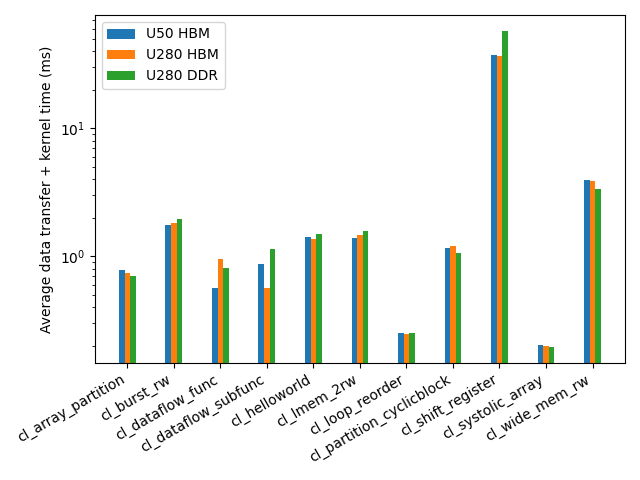
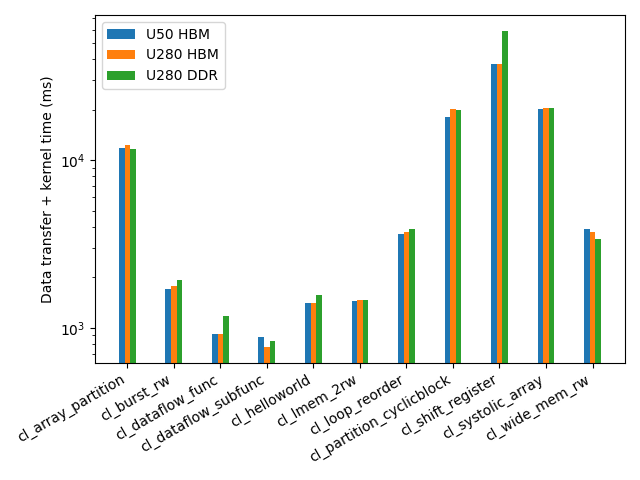
Update execution time

diff --git a/performance/execution-time.py b/performance/execution-time.py
@@ -14,7 +14,7 @@ df_u280_ddr_fast = pd.read_csv("../data/u280-ddr-fast-vitis.csv", skipinitialspa
 
 # Sum up data transfer + kernel execution time
 for df in [df_u50_slow, df_u50_fast, df_u280_slow, df_u280_fast, df_u280_ddr_slow, df_u280_ddr_fast]:
-    df["transfer+kernel"] = df["data_to_fpga_average"] + df["kernel_average"] + df["data_to_host_average"]
+    df["transfer+kernel"] = df["data_to_fpga"] + df["kernel"] + df["data_to_host"]
     df["transfer+kernel"] /= 1_000_000 # to miliseconds
 
 bar_width = 0.12
@@ -57,7 +57,7 @@ plt.bar(x            , df_u280_slow["transfer+kernel"].values, width=bar_width, 
 plt.bar(x + bar_width, df_u280_ddr_slow["transfer+kernel"].values, width=bar_width, label=f"U280 DDR")
 
 plt.xticks(x, app_names, rotation=30, ha="right")
-plt.ylabel("Average data transfer + kernel time (ms)")
+plt.ylabel("Data transfer + kernel time (ms)")
 # plt.grid(which="both", axis="y")
 plt.yscale("log")
 plt.legend(loc="upper left")
@@ -74,7 +74,7 @@ plt.bar(x            , df_u280_fast["transfer+kernel"].values, width=bar_width, 
 plt.bar(x + bar_width, df_u280_ddr_fast["transfer+kernel"].values, width=bar_width, label="U280 DDR")
 
 plt.xticks(x, app_names, rotation=30, ha="right")
-plt.ylabel("Average data transfer + kernel time (ms)")
+plt.ylabel("Data transfer + kernel time (ms)")
 # plt.grid(which="both", axis="y")
 plt.yscale("log")
 plt.legend(loc="upper left")

diff --git a/performance/execution-time-widemem.py b/performance/execution-time-widemem.py
@@ -14,7 +14,7 @@ df_u280_ddr_fast = pd.read_csv("../data/u280-ddr-fast-vitis.csv", skipinitialspa
 
 # Sum up data transfer + kernel execution time
 for df in [df_u50_slow, df_u50_fast, df_u280_slow, df_u280_fast, df_u280_ddr_slow, df_u280_ddr_fast]:
-    df["transfer+kernel"] = df["data_to_fpga_average"] + df["kernel_average"] + df["data_to_host_average"]
+    df["transfer+kernel"] = df["data_to_fpga"] + df["kernel"] + df["data_to_host"]
     df["transfer+kernel"] /= 1_000_000 # to miliseconds
 
 bar_width = 0.12
@@ -57,7 +57,7 @@ plt.bar(x            , df_u280_slow["transfer+kernel"].values, width=bar_width, 
 plt.bar(x + bar_width, df_u280_ddr_slow["transfer+kernel"].values, width=bar_width, label=f"U280 DDR")
 
 plt.xticks(x, app_names)
-plt.ylabel("Average data transfer + kernel time (ms)")
+plt.ylabel("Data transfer + kernel time (ms)")
 # plt.grid(which="both", axis="y")
 # plt.yscale("log")
 plt.legend()
@@ -74,7 +74,7 @@ plt.bar(x            , df_u280_fast["transfer+kernel"].values, width=bar_width, 
 plt.bar(x + bar_width, df_u280_ddr_fast["transfer+kernel"].values, width=bar_width, label="U280 DDR")
 
 plt.xticks(x, app_names)
-plt.ylabel("Average data transfer + kernel time (ms)")
+plt.ylabel("Data transfer + kernel time (ms)")
 # plt.grid(which="both", axis="y")
 # plt.yscale("log")
 plt.legend()
